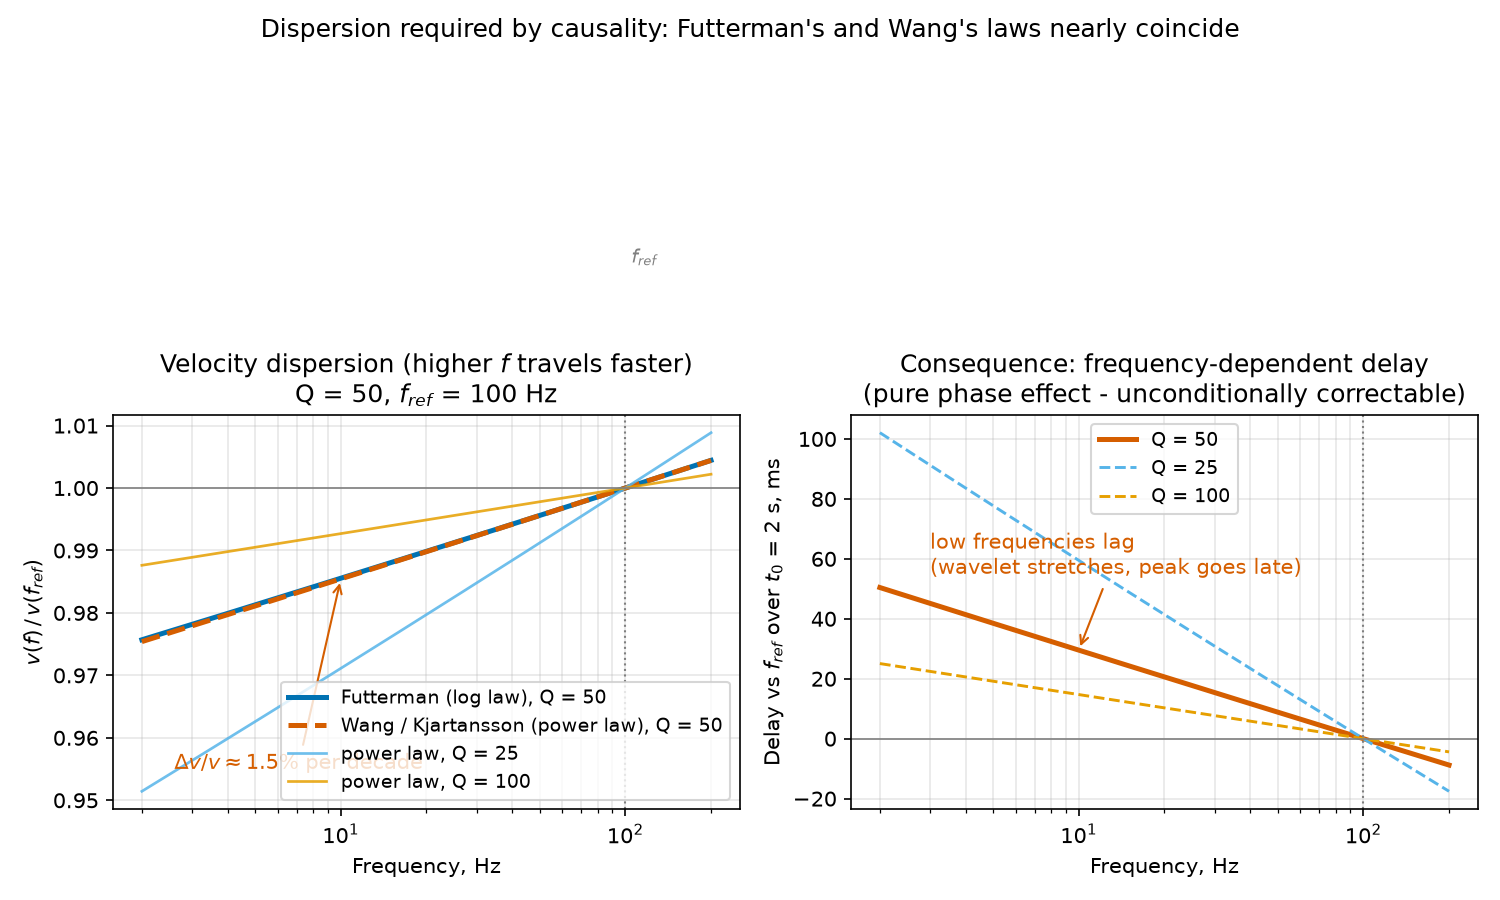
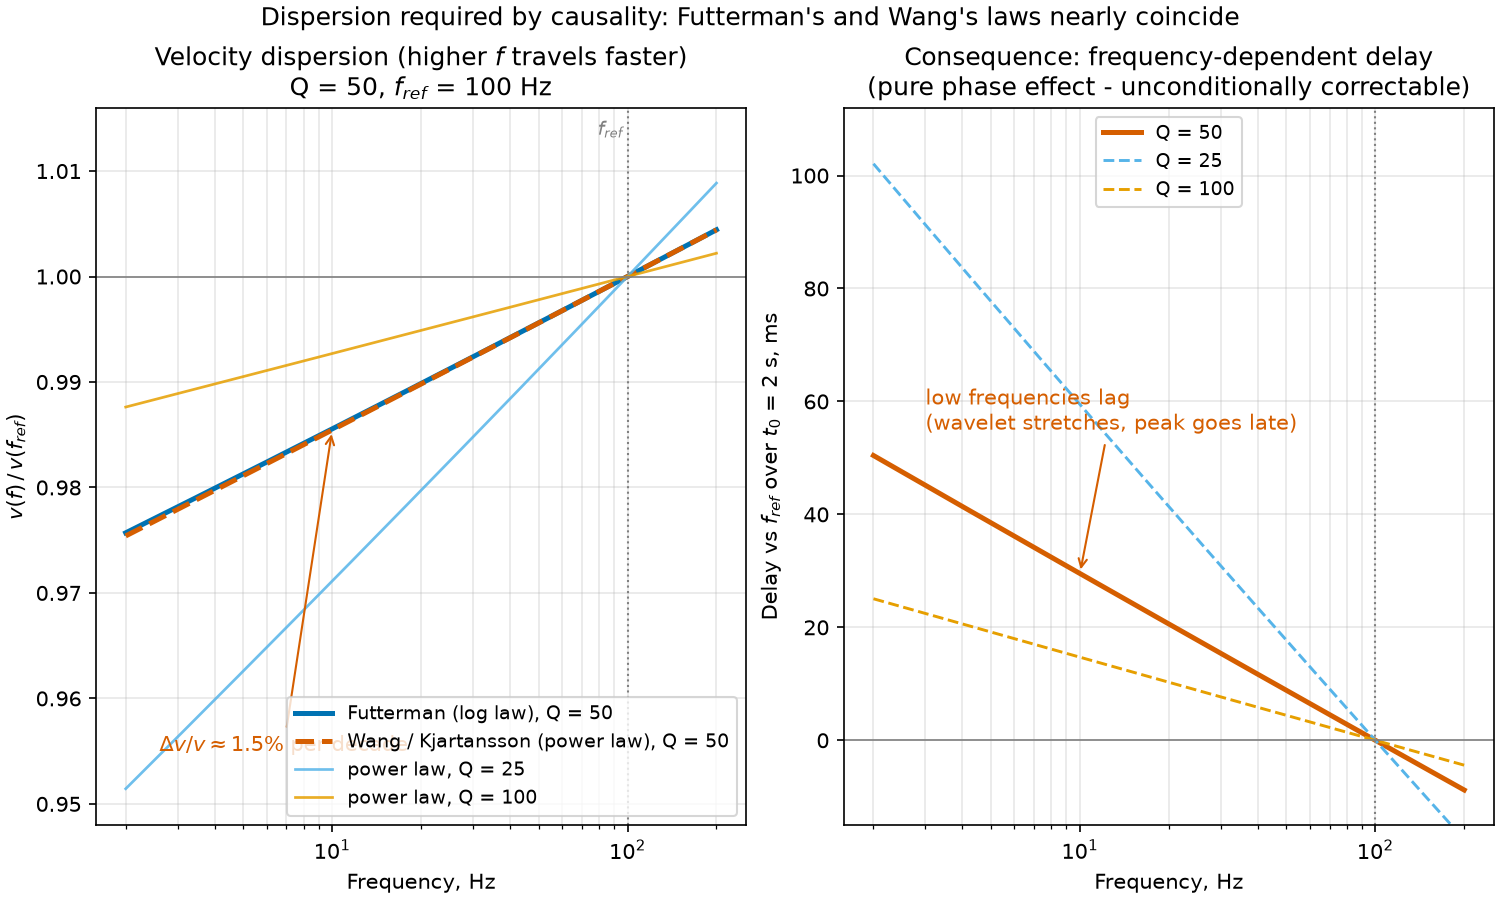
Slide outline for lecture 02_01

diff --git a/scripts/figures/term02_lec01/plot_velocity_dispersion.py b/scripts/figures/term02_lec01/plot_velocity_dispersion.py
@@ -45,7 +45,8 @@ def wang_ratio(f, q, f_ref):
 def main():
     f = np.logspace(np.log10(2), np.log10(200), 400)
 
-    fig, (ax_v, ax_d) = plt.subplots(1, 2, figsize=(10, 6))
+    fig, (ax_v, ax_d) = plt.subplots(1, 2, figsize=(10, 6),
+                                     constrained_layout=True)
 
     # --- velocity ratios ---
     ax_v.plot(f, futterman_ratio(f, Q_MAIN, F_REF), color=C_MAIN, lw=2.4,
@@ -57,7 +58,9 @@ def main():
                   label=f"power law, Q = {q:.0f}")
     ax_v.axhline(1.0, color="gray", lw=0.8)
     ax_v.axvline(F_REF, color="gray", ls=":", lw=1)
-    ax_v.text(F_REF, 1.036, " $f_{ref}$", fontsize=9, color="gray")
+    ax_v.set_ylim(0.948, 1.016)
+    ax_v.text(F_REF * 0.97, 1.0148, "$f_{ref}$",
+              ha="right", va="top", fontsize=9, color="gray")
 
     # annotate one decade of change
     dv = (wang_ratio(100.0, Q_MAIN, F_REF) - wang_ratio(10.0, Q_MAIN, F_REF))
@@ -82,6 +85,7 @@ def main():
                   label=f"Q = {q:.0f}")
     ax_d.axhline(0, color="gray", lw=0.8)
     ax_d.axvline(F_REF, color="gray", ls=":", lw=1)
+    ax_d.set_ylim(-15, 112)
     ax_d.annotate("low frequencies lag\n(wavelet stretches, peak goes late)",
                   xy=(10, 1e3 * T0 * ((10 / F_REF) ** (-gamma_of_q(Q_MAIN)) - 1)),
                   xytext=(3, 55), fontsize=10, color=C_ALT,
@@ -96,7 +100,6 @@ def main():
 
     fig.suptitle("Dispersion required by causality: "
                  "Futterman's and Wang's laws nearly coincide", fontsize=12)
-    fig.tight_layout(rect=(0, 0, 1, 0.93))
     out = os.path.join("figures",
                        "term02_lec01", "term02_lec01_velocity_dispersion.png")
     os.makedirs(os.path.dirname(out), exist_ok=True)

diff --git a/scripts/build_slides.py b/scripts/build_slides.py
@@ -29,6 +29,9 @@ def latex_to_plain(text: str) -> str:
 
 def _convert_math(expr: str) -> str:
     """Best-effort conversion of a LaTeX math expression to plain text."""
+    # Thin-space macros first, before any backslash stripping turns them
+    # into stray commas/colons below.
+    expr = expr.replace(r"\,", " ").replace(r"\;", " ").replace(r"\:", " ")
     # Common substitutions
     replacements = {
         r"\varepsilon": "ε",
@@ -98,6 +101,9 @@ def _convert_math(expr: str) -> str:
     expr = expr.replace("{", "").replace("}", "")
     # Replace \* leftover
     expr = expr.replace("\\", "")
+
+    # Collapse runs of whitespace left by removed macros
+    expr = re.sub(r"  +", " ", expr)
 
     return expr.strip()
 

diff --git a/slides/term02/lec01_absorption_and_q_compensation/slide_outline.md b/slides/term02/lec01_absorption_and_q_compensation/slide_outline.md
@@ -1,0 +1,337 @@
+# Slide outline — Term 2, Lecture 1: Absorption and Q-Compensation
+
+---
+
+
+## Slide 1 — Title
+- Absorption and Q-Compensation
+- Term 2, Lecture 1
+- Figure: none
+
+---
+
+## Slide 2 — Learning objectives
+- Recognize absorption on real data: frequency panels, systematic spectral decay with traveltime.
+- Define the quality factor $Q$ from energy loss and from amplitude decay; know typical rock values.
+- Explain why causality forces velocity dispersion (Kramers–Kronig relations).
+- Distinguish the four classical Q-model families and say why only two survive in processing.
+- Describe inverse Q filtering: stable phase correction, stabilized amplitude correction.
+- Choose practical parameters: reference frequency, gain limit, compensation mode.
+- Estimate Q from VSP and reflection data: spectral ratio, centroid shift, least-squares modelling, wavelet matching.
+
+---
+
+## Slide 3 — Why this lecture matters
+- In Term 1 absorption was one line on the amplitude-effects list: "corrected by Q-compensation, covered later."
+- This lecture is that "later."
+- Absorption removes high frequencies selectively — a 3-second section is blurrier than a 1-second one.
+- It also delays the surviving low frequencies — the wavelet stretches.
+- Both effects grow with traveltime: the wavelet is nonstationary, and ordinary (stationary) deconvolution cannot handle that.
+
+---
+
+## Slide 4 — Two sections, one difference
+- The same data imaged with and without Q-compensation; acquisition unchanged.
+- With compensation: deep events sharper, weak reflectors become visible.
+- The deep section stops losing "character" with traveltime.
+- Figure: `term02_lec01_realdata_with_without_q.png`
+
+---
+
+## Slide 5 — Frequency panels: the direct evidence
+- Filter the data into narrow frequency bands; compare the same section at low and high frequency.
+- 10–20 Hz: energy survives to the bottom of the record — deep events are there, just blurry.
+- 50–60 Hz: fades gradually with traveltime — where it dies, resolution is gone.
+- Absorption signature: smooth, systematic loss with time. Not a notch (ghost / anti-alias), not random (noise).
+- Figure: `term02_lec01_realdata_freq_panel_high.png`
+
+---
+
+## Slide 6 — Three consequences we must undo
+- **Amplitude decay** depending on frequency and traveltime: deep spectra are tilted toward low frequencies.
+- **Wavelet stretching and delay**: low frequencies travel slower (dispersion, next section).
+- **Nonstationarity**: the wavelet at 0.5 s and at 3.0 s are different.
+- Every stationary step — including Term-1 predictive deconvolution — silently assumes they are the same.
+
+---
+
+## Slide 7 — Where Q-compensation sits in the flow
+- **Time-domain processing**: a nonstationary inverse Q filter on traces (prestack or poststack), after spherical-spreading correction, before or together with deconvolution.
+- **Inside imaging**: modern migration compensates absorption along the path, using a 3D interval-Q model from Q-tomography.
+- Either way, two inputs are always needed:
+  - a Q value or model (where does it come from? — Section 7 of the notes)
+  - a compensation operator (what does it do, which knobs?)
+
+---
+
+## Slide 8 — Intrinsic versus apparent attenuation
+- **Intrinsic (anelastic) absorption**: elastic energy converted to heat — friction at grain contacts, squirt flow, frame relaxation.
+- **Scattering**: energy redirected by small-scale heterogeneities (layering, faults, porosity patches); lost from the stack but not converted to heat.
+- From surface data the two are nearly indistinguishable — both attenuate and both tilt the spectrum low.
+- Processing treats them together as apparent attenuation with an effective $Q$.
+
+---
+
+## Slide 9 — The key experimental fact
+- Laboratory and field data on consolidated rocks agree:
+- **the fractional energy loss per cycle is nearly independent of frequency** over the seismic band.
+- Not per second — per cycle.
+- A 50 Hz wave completes 5 times more cycles per second than a 10 Hz wave: it loses energy 5 times faster per second.
+- High frequencies die first **because they cycle more, not because each cycle is lossier.**
+
+---
+
+## Slide 10 — Defining Q
+- From energy: $Q = 2\pi\, E / \Delta E$ — energy stored over energy lost in one cycle; $Q^{-1}$ is the specific dissipation.
+- From amplitude: $A(\omega, t) = A_0 \exp(-\omega t / 2Q)$.
+- Worked example, $Q = 50$: each cycle costs $2\pi/Q \approx 12.6\%$ of the remaining energy.
+- Ten cycles take 71% of the energy — and a deep reflection has completed thousands of cycles.
+- Figure: `term02_lec01_q_definition.png`
+
+---
+
+## Slide 11 — Typical Q values
+- Weathered layer, unconsolidated sediments: 10–30.
+- Consolidated clastics (sand/shale): 50–150.
+- Carbonates, evaporites: 150–300+.
+- Deep, tight crystalline rocks: 300–1000.
+- Rules of thumb: shallower rocks lose more; $Q$ roughly scales with velocity.
+
+---
+
+## Slide 12 — The amplitude law in numbers
+- Take $Q = 50$, reflector at two-way time $t_0 = 2$ s: $A/A_0 = \exp(-\pi f t_0 / Q)$.
+- At 10 Hz: keeps ~29% of its amplitude. At 40 Hz: keeps 0.65%.
+- One and a half octaves — a factor of 45 in amplitude. This tilt is what we must undo.
+- As the wavelet travels: amplitude drops, spectrum centroid shifts low, wavelet lengthens — with the low-frequency tail lagging behind.
+- Figure: `term02_lec01_pulse_broadening.png`
+
+---
+
+## Slide 13 — Absorption without dispersion is impossible
+- Thought experiment: a medium that absorbs high frequencies with no dispersion — all frequencies same speed.
+- Its propagation filter would have zero phase at every frequency.
+- Zero phase means a symmetric impulse response — ringing before the input arrives.
+- That is acausal: the Earth cannot respond before the source triggers.
+- Conclusion: attenuation and phase are two halves of one causal response.
+
+---
+
+## Slide 14 — Kramers–Kronig relations
+- For any causal linear system, Re H and Im H are Hilbert-transform duals (Kramers 1927, Kronig 1926).
+- Applied to propagation: **choose any attenuation law — the dispersion law is then determined.**
+- Futterman (near-constant Q, low-frequency cutoff $\omega_0$): $v(f)/v(f_r) \approx 1 + \ln(f/f_r)/(\pi Q)$
+- Kjartansson (exactly constant Q, no cutoff): $v(f)/v(f_r) = (f/f_r)^{\gamma}$, $\gamma = \arctan(1/Q)/\pi$
+- For small $1/Q$ these are the same law — do not fear the choice in software.
+
+---
+
+## Slide 15 — How large is dispersion?
+- Everything scales as $\ln(\text{frequency ratio})/(\pi Q)$.
+- $Q = 50$: velocity changes ~1.5% per frequency decade.
+- 10 Hz lags 100 Hz by ~29 ms over $t_0 = 2$ s of travel.
+- Small compared with geology — but systematic, frequency-dependent, cumulative with traveltime.
+- Figure: `term02_lec01_velocity_dispersion.png`
+
+---
+
+## Slide 16 — Why practitioners should care
+- **Well ties**: check-shot data (high f) and surface seismic (low f) sample different points of the dispersion curve — a few-ms mismatch that is physics, not error.
+- **Velocity analysis**: picked velocities correspond to the dominant frequency of the data.
+- **4D**: different spectra accumulate different dispersion delays; reference frequency is a lever that keeps surveys comparable.
+- **Processing**: dispersion correction is a pure phase operation — unconditionally stable, the "safe half" of Q-compensation.
+
+---
+
+## Slide 17 — What a "model of Q" must contain
+- Not just a number: a complete **causally consistent pair** — attenuation law $\alpha(\omega)$ plus dispersion law $v(\omega)$.
+- Consistent with the Kramers–Kronig relations.
+- Amplitude alone, or phase alone, is not a propagation model.
+- Never mix an attenuation law from one model with a dispersion law from another — that violates causality.
+
+---
+
+## Slide 18 — The four classical families
+- **Frictional** (Born, White, Knopoff): loss per cycle constant — but nonlinear and acausal. Dead end for processing.
+- **Voigt–Ricker** (viscous solid): linear, causal — gave us the Ricker wavelet; but $Q \propto f$ contradicts measurements.
+- **Kolsky–Futterman** (near-constant Q, NCQ): constant Q over a band with cutoff; logarithmic dispersion. The workhorse of processing software.
+- **Kjartansson constant Q** (CQ): exactly constant Q at all frequencies; power-law dispersion. The workhorse of wave-equation methods and Wang's inverse Q filter.
+- Figure: `term02_lec01_q_models.png`
+
+---
+
+## Slide 19 — Reading the table like a processor
+- The frictional family died of nonlinearity — all seismic processing (superposition, convolution, deconvolution) assumes linearity.
+- The Voigt–Ricker family died of wrong $Q(f)$ — but the Ricker wavelet outlived its physics.
+- Everything modern is NCQ or CQ; for $Q \ge 30$ they agree to well under a percent — the choice is bookkeeping.
+- What matters physically: amplitude and phase come from the same causal pair.
+
+---
+
+## Slide 20 — The Earth Q filter: nonstationary convolution
+- Propagation for traveltime $t$ multiplies each frequency component by
+- $U(t, \omega) = U(0, \omega)\; \exp(-\omega t / 2Q)\; \exp(i\phi(\omega, t))$
+- amplitude decay times dispersion phase — each deeper reflection filtered more.
+- A different filter at each record time: nonstationary convolution.
+- Why ordinary deconvolution is not enough: a stationary spiking filter finds one wavelet for the whole trace — it can only compromise.
+- Q-compensation removes the systematic time-varying part first; deconvolution then works as designed.
+
+---
+
+## Slide 21 — Futterman's phase correction: unconditionally stable
+- Correcting dispersion is deterministic: apply the exact opposite phase per frequency — a pure, frequency-dependent time shift.
+- The phase operator has unit amplitude at every frequency: it rearranges the spectrum, amplifies nothing.
+- Cannot blow up, barely touches noise.
+- Fixes: wavelet stretching, systematic delay of low frequencies — better timing, better well ties.
+- Does not fix: lost high-frequency amplitudes.
+
+---
+
+## Slide 22 — Wang's amplitude correction: needs stabilization
+- Recovering amplitudes requires $\exp(+\omega t / 2Q)$ — exponential growth in both frequency and traveltime.
+- $Q = 50$, $t = 2$ s: boost ×150 at 40 Hz, ×3000+ at 60 Hz.
+- Beyond the noise floor this amplifies noise — Wang (2002) showed wild oscillations on noise-free synthetics (amplified machine precision).
+- Two classical stabilizations:
+  - gain-limited filter: clip the boost at a maximum gain (Wang 2002)
+  - damped least-squares operator: exact where signal lives, graceful taper where it died (Wang 2006)
+- Users specify a gain limit in dB; the factor $\sigma^2$ is computed from it.
+- Figure: `term02_lec01_inverse_q_operator.png`
+
+---
+
+## Slide 23 — What each mode fixes: synthetic experiment
+- Three reflectors after propagation through $Q = 60$: raw, phase-only, amplitude + phase (20 dB limit).
+- Phase-only: sharpens and re-centres the wavelet without touching amplitudes.
+- Amplitude + phase: additionally restores relative strength across frequency.
+- The price: noise is boosted in the depleted band too.
+- Figure: `term02_lec01_compensation_modes.png`
+
+---
+
+## Slide 24 — The classic three-panel experiment
+- Model data (left), amplitude correction (middle), amplitude + phase (right).
+- Amplitude-only restores the spectral tilt — but the wavelet stays stretched.
+- Adding phase correction restores symmetry and sharpness.
+- Figure: `term02_lec01_realdata_compensation_result.png`
+
+---
+
+## Slide 25 — Handling variable Q
+- Real Q varies with depth and laterally. Two implementations:
+- **Layered constant Q** (Wang 2002): extrapolate the wavefield layer by layer (downward continuation), constant-Q inverse filter inside each layer.
+- **Continuous Q(t)** (Wang 2006): integrate operators through a smoothly varying Q; efficient in the Gabor (windowed Fourier) domain.
+- Prestack data in complex areas: compensate inside migration — next slides.
+
+---
+
+## Slide 26 — Practical: the reference frequency
+- Every causal dispersion law gives velocity relative to $f_\text{ref}$: that component keeps its traveltime unchanged.
+- Frequencies above $f_\text{ref}$ are pulled earlier, below — pushed later. The wavelet is anchored at $f_\text{ref}$.
+- The choice is a processing decision, not physics:
+  - dominant frequency (common default): event times stay close to picks
+  - anchored high: all usable frequencies shift earlier by up to tens of ms; check-shot ties move
+  - 4D: baseline and monitor must use the same convention
+- "My Q-compensation moved events by 15 ms" → suspect the reference frequency first, not Q.
+
+---
+
+## Slide 27 — Practical: the gain limit
+- The main quality knob: how much boost you allow.
+- Too low (10 dB): cosmetic; spectra barely change at depth.
+- Appropriate (typically 20–40 dB): deep bandwidth recovers to where signal still exceeds noise.
+- Too high (60+ dB on noisy data): spiky "resolution illusion," ringing — frequencies that never reached the receivers cannot be restored.
+- QC: average spectra in time windows before/after; the boosted band must end at the noise floor; the difference section must contain noise, not events.
+
+---
+
+## Slide 28 — Practical: choosing the compensation mode
+- **Phase only**: fixes stretching and delays. Use when amplitudes must be preserved (AVO), data are noisy, or Q is uncertain — the phase part is robust to moderate Q errors.
+- **Amplitude only**: fixes the spectral tilt; rare alone — the wavelet stays stretched, resolution barely improves.
+- **Amplitude + phase**: fixes everything recoverable; the default for resolution-oriented processing.
+
+---
+
+## Slide 29 — Q-compensation in imaging: Q-tomography
+- Deep-water and structurally complex plays: rays sample different Q along different paths — time-domain poststack compensation is not enough.
+- Prestack attenuation analysis (estimation methods of Section 7, in tomographic form) inverts amplitude behaviour into interval-Q cubes.
+- Figure: `term02_lec01_realdata_q_cubes.png`
+
+---
+
+## Slide 30 — Q-compensating migration: field example
+- The same data migrated without (left) and with (right) Q-compensation.
+- Vertical resolution and fault definition improve at target level.
+- This is the deep-processing route: the Q model and the imaging operator work together.
+- Figure: `term02_lec01_realdata_migration_qcomp.jpg`
+
+---
+
+## Slide 31 — Estimating Q: where estimates come from
+- **VSP**: receivers in the well record the direct downgoing wave; between two levels everything else is identical — the classical, cleanest domain.
+- **Sonic logs / crosswell**: very high frequency, shallow focus, dispersion correction of their own.
+- **Surface reflection data**: always available, noisier; windows around two reflectors replace the two VSP levels; gives an effective Q over the path.
+- Data preparation rule number one: **no AGC** — the Q information IS the amplitude decay across frequency and time.
+- QC the time-frequency spectrogram first: smooth systematic decay before any fitting.
+- Figure: `term02_lec01_realdata_well_q.png`
+
+---
+
+## Slide 32 — Spectral-ratio method
+- Compare spectra of two windows at $t_1$ and $t_2$; the ratio cancels source, geometry, and frequency-independent gains.
+- The log spectral ratio is a straight line in frequency:
+- $\ln\,|A_2(f)|/|A_1(f)| = -\pi (t_2 - t_1) f / Q + b$
+- Fit the slope $k$ by least squares: $Q = -\pi (t_2 - t_1) / k$.
+- Most accurate on clean data (Tonn 1991 VSP tests) — but a ratio of noisy spectra does not cancel noise, it divides it.
+- Figure: `term02_lec01_spectral_ratio.png`
+
+---
+
+## Slide 33 — Central-frequency shift method
+- Track one robust attribute: the centroid of the spectrum $f_c$ (Quan & Harris 1997).
+- Absorption multiplies a Gaussian spectrum by $e^{-\pi f \tau / Q}$ — a linear-in-f exponent: the Gaussian slides down, width unchanged.
+- $f_{c,1} - f_{c,2} = \pi \tau \sigma_f^2 / Q$, so $Q = \pi \tau \sigma_f^2 / (f_{c,1} - f_{c,2})$.
+- Whole-spectrum attribute → robust to noise; survives in production.
+- Weakness: Gaussian assumption and analysis-band choice — whole-band fits can err 40–150%, band-limited fits by a few percent (Cheng & Margrave).
+- Figure: `term02_lec01_centroid_shift.png`
+
+---
+
+## Slide 34 — Least-squares modelling and wavelet matching
+- **LS spectrum modelling**: fit the measured (t, f) surface directly with the physical model — no spectral division; handles $G(t)$ and time-varying Q. The production default in modern software.
+- **Wavelet optimization** (Cheng & Margrave 2012): compare minimum-phase wavelets of two windows in the time domain; search the Q whose forward operator (amplitude + dispersion) maps one into the other.
+- Uses the complete propagation model, including phase — not just amplitudes.
+- In CREWES comparisons on noisy reflection data: the most accurate and most robust family.
+
+---
+
+## Slide 35 — Method comparison and practical guidance
+- Spectral ratio: exact but noise-fragile — best on clean VSP.
+- Central-frequency shift: robust, fast — sensitive to the analysis band.
+- LS modelling: no division, handles gains and time-varying Q — production default.
+- Wavelet matching: most robust on noisy data; uses phase too.
+- Surface-data estimates are effective Q; interval Q comes from layer-stripping — the same algebra as interval velocities.
+- QC everything: spectrograms first, two methods compared, difference sections after compensation.
+- Figure: `term02_lec01_realdata_estimation_panels.png`
+
+---
+
+## Slide 36 — Summary
+- Absorption (intrinsic + scattering = apparent): loss is constant per cycle → high frequencies die first; spectra tilt and shift low with traveltime.
+- $Q = 2\pi E/\Delta E$; typical rocks 10–30 (weathered) to 300+ (carbonates, crystalline).
+- Causality (Kramers–Kronig) forbids absorption without dispersion; Futterman's and Kjartansson's laws coincide over seismic bands.
+- A Q model is a causal amplitude/phase pair; NCQ and CQ are the working models.
+- The Earth Q filter is nonstationary: phase correction is unconditionally stable; amplitude correction must be gain-limited (dB).
+- Practical knobs: reference frequency, gain limit, mode; imaging uses interval-Q from tomography.
+- Estimation: spectral ratio, centroid shift, LS modelling, wavelet matching — and never AGC before estimation.
+
+---
+
+## Slide 37 — Comprehension questions
+- Why do high frequencies attenuate faster — and why does this follow from the per-cycle nature of the loss?
+- $Q = 40$, $t_0 = 2.5$ s: compute $A/A_0$ at 15 Hz and 60 Hz. What does their ratio say about the spectral tilt?
+- A colleague builds a "pure absorber" (real attenuation, zero dispersion). What principle does it violate, and what would its impulse response look like?
+- Why is the phase-only inverse Q filter unconditionally stable, while the amplitude operator must be stabilized?
+- A noisy land stack shows wonderful sharp "resolution" at 4 s after 60 dB of boost. Two reasons to be suspicious?
+- After Q-compensation a well-tie event arrives 18 ms earlier. Which parameter was likely set unconventionally?
+- Derive $Q = -\pi \Delta t / k$ from the two-window spectral model. Which assumption fails first on a noisy gather?
+- Why does AGC before Q-estimation destroy the estimate, while noise attenuation does not?
